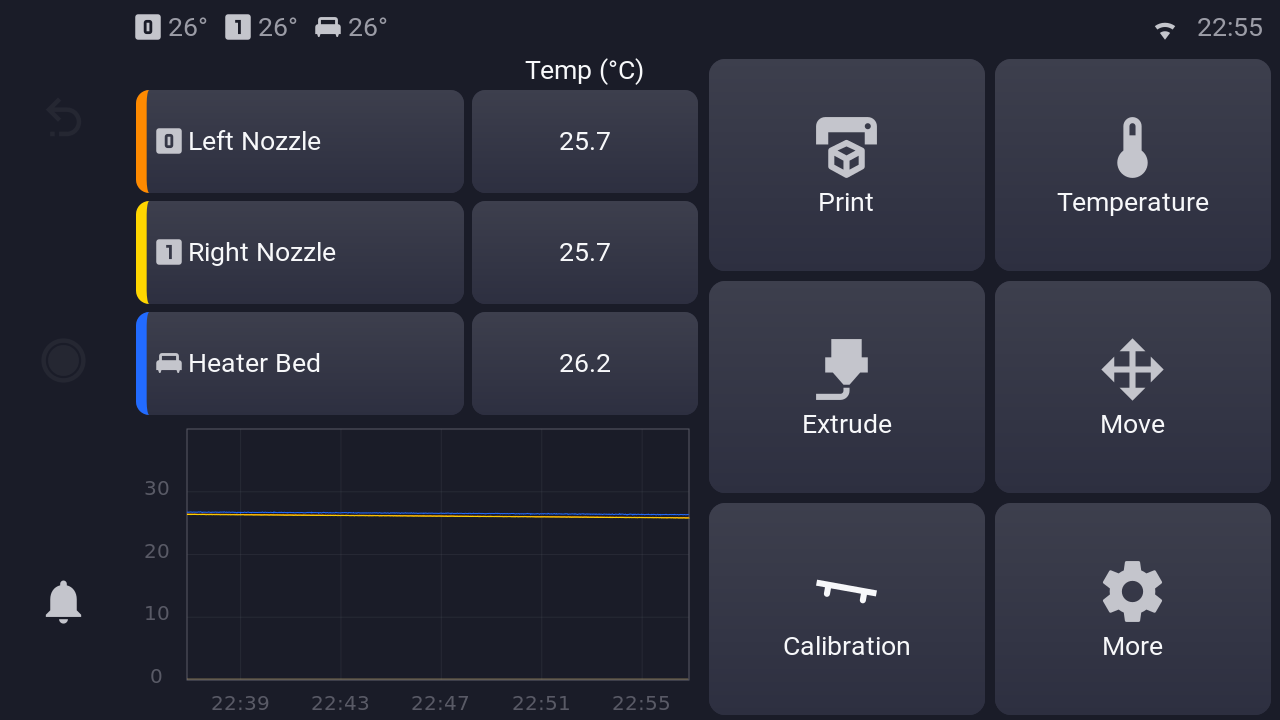
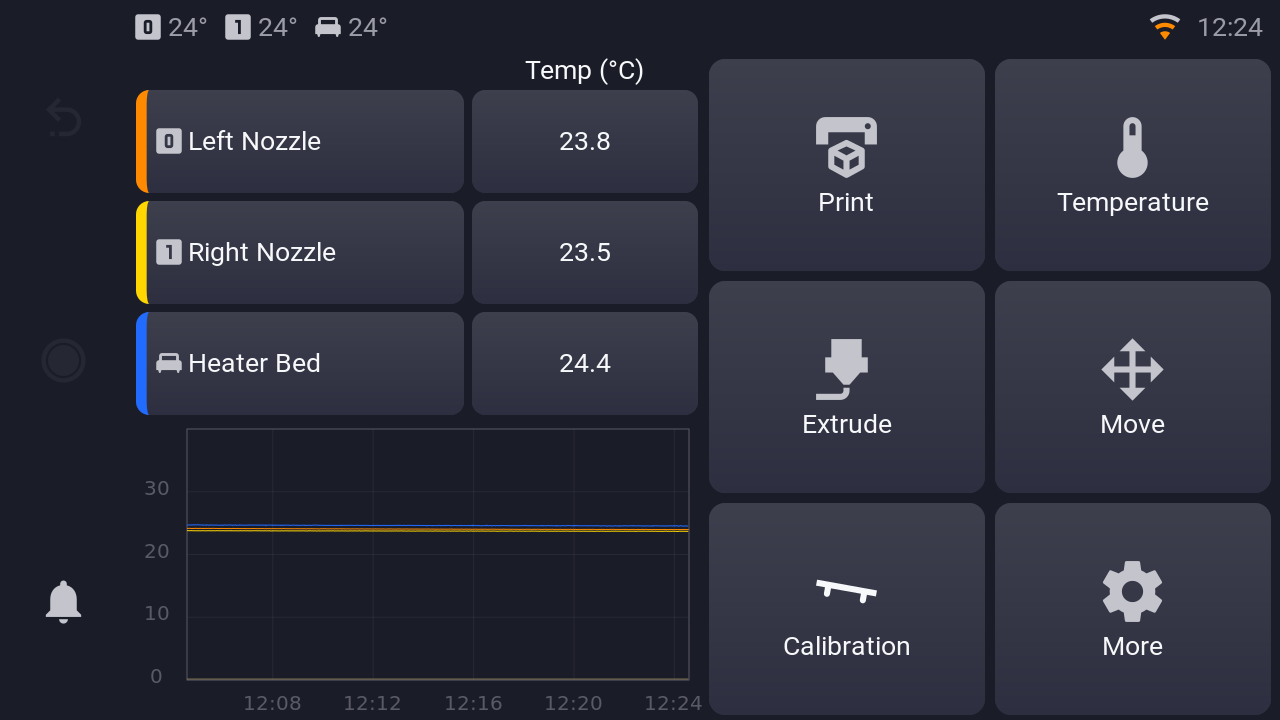
KlipperScreen: WLAN symbol with all bars visible
The symbols of the theme leave out the bars without signal, so a weak
signal showed little more than a dot.  The symbol now shows all bars,
the ones with signal in orange.

diff --git a/klipperscreen/snapmaker_j1/wifi.py b/klipperscreen/snapmaker_j1/wifi.py
@@ -9,16 +9,28 @@ import socket
 import gi
 
 gi.require_version("Gtk", "3.0")
-from gi.repository import GLib, Gtk, Pango
+from gi.repository import GdkPixbuf, GLib, Gtk, Pango
+
+from . import style
 
 # Seconds between two readings of the connection
 POLL = 5
-# Signal strength (%) to symbol, as the WLAN page of KlipperScreen
-LEVELS = ((75, "wifi_excellent"), (60, "wifi_good"), (30, "wifi_fair"),
-          (-1, "wifi_weak"))
-# Without a connection: the full symbol, greyed out
-OFFLINE_ICON = "wifi_excellent"
-OFFLINE_OPACITY = .3
+# The parts of the WLAN symbol of the theme (wifi_excellent.svg): the dot
+# and the two arcs, from the inside out
+PARTS = (
+    "M12,21L15.6,16.2C14.6,15.45 13.35,15 12,15C10.65,15 9.4,15.45 8.4,16.2"
+    "L12,21Z",
+    "M12,9C9.3,9 6.81,9.89 4.8,11.4L6.6,13.8C8.1,12.67 9.97,12 12,12"
+    "C14.03,12 15.9,12.67 17.4,13.8L19.2,11.4C17.19,9.89 14.7,9 12,9Z",
+    "M12,3C7.95,3 4.21,4.34 1.2,6.6L3,9C5.5,7.12 8.62,6 12,6C15.38,6 18.5,7.12"
+    " 21,9L22.8,6.6C19.79,4.34 16.05,3 12,3Z",
+)
+# Signal strength (%) to the number of parts shown in orange, as the levels
+# of the WLAN page of KlipperScreen (excellent, good, fair and weak)
+LEVELS = ((75, 3), (60, 2), (-1, 1))
+# The parts without signal stay visible in the color of the title bar;
+# without a connection the whole symbol is in that color, dimmed
+OFFLINE_OPACITY = .5
 # The WLAN page (More -> Network -> WLAN)
 WLAN_PANEL = "network"
 
@@ -84,18 +96,31 @@ class WifiIcon:
             self.box.hide()
             return not self.nm_failed
         if status["ssid"]:
-            name = next(icon for level, icon in LEVELS
-                        if status["signal"] > level)
-            shown = (name, 1.)
+            parts = next(n for level, n in LEVELS if status["signal"] > level)
+            shown = (parts, 1.)
         else:
-            shown = (OFFLINE_ICON, OFFLINE_OPACITY)
+            shown = (0, OFFLINE_OPACITY)
         if shown != self.shown:
-            self.image.set_from_pixbuf(self.screen.gtk.PixbufFromIcon(
-                shown[0], self.size, self.size))
+            self.image.set_from_pixbuf(self._pixbuf(shown[0]))
             self.image.set_opacity(shown[1])
             self.shown = shown
         self.box.show()
         return True
+
+    def _pixbuf(self, parts):
+        # The first parts in orange (signal), the others in the color of the
+        # title bar
+        paths = "".join(
+            '<path d="%s" fill="%s"/>' % (
+                d, style.PRIMARY if i < parts else style.BODY)
+            for i, d in enumerate(PARTS))
+        svg = ('<svg xmlns="http://www.w3.org/2000/svg" width="24" height="24"'
+               ' viewBox="0 0 24 24">%s</svg>' % (paths,))
+        loader = GdkPixbuf.PixbufLoader()
+        loader.set_size(int(self.size), int(self.size))
+        loader.write(svg.encode())
+        loader.close()
+        return loader.get_pixbuf()
 
     def _clicked(self, widget, event):
         self._update()

diff --git a/docs/Manual.md b/docs/Manual.md
@@ -63,8 +63,9 @@ implemented, configuration) see [Snapmaker_J1.md](Snapmaker_J1.md).
 
 **Title bar.** The current temperatures of the left nozzle (0), the right
 nozzle (1) and the heated bed, the title of the page, the WLAN symbol and
-the clock.  The WLAN symbol shows the signal strength, greyed out without
-a connection.  Tap it to see the network, the signal, the IP address and
+the clock.  The WLAN symbol shows the signal strength: the more bars are
+orange, the better the signal; without a connection no bar is orange and
+the symbol is dimmed.  Tap it to see the network, the signal, the IP address and
 the address of the [web interface](#web-interface); **WLAN** there opens
 the WLAN page.
 

diff --git a/CHANGELOG.md b/CHANGELOG.md
@@ -54,7 +54,8 @@ released as git tags `vX.Y.Z`.  The update manager shows this version.
   to medium with one restart of the screen
   ([#9](https://github.com/Nimrasol/KlipperSnapmakerJ1/issues/9)).
 - **WLAN symbol in the title bar:** left of the clock, it shows the
-  signal strength of the WLAN, greyed out without a connection.  A tap
+  signal strength of the WLAN in orange bars; without a connection no bar
+  is orange and the symbol is dimmed.  A tap
   shows the network, the signal, the IP address and the address of the
   web interface, with a button to the WLAN page
   ([D#8](https://github.com/Nimrasol/KlipperSnapmakerJ1/discussions/8)).
